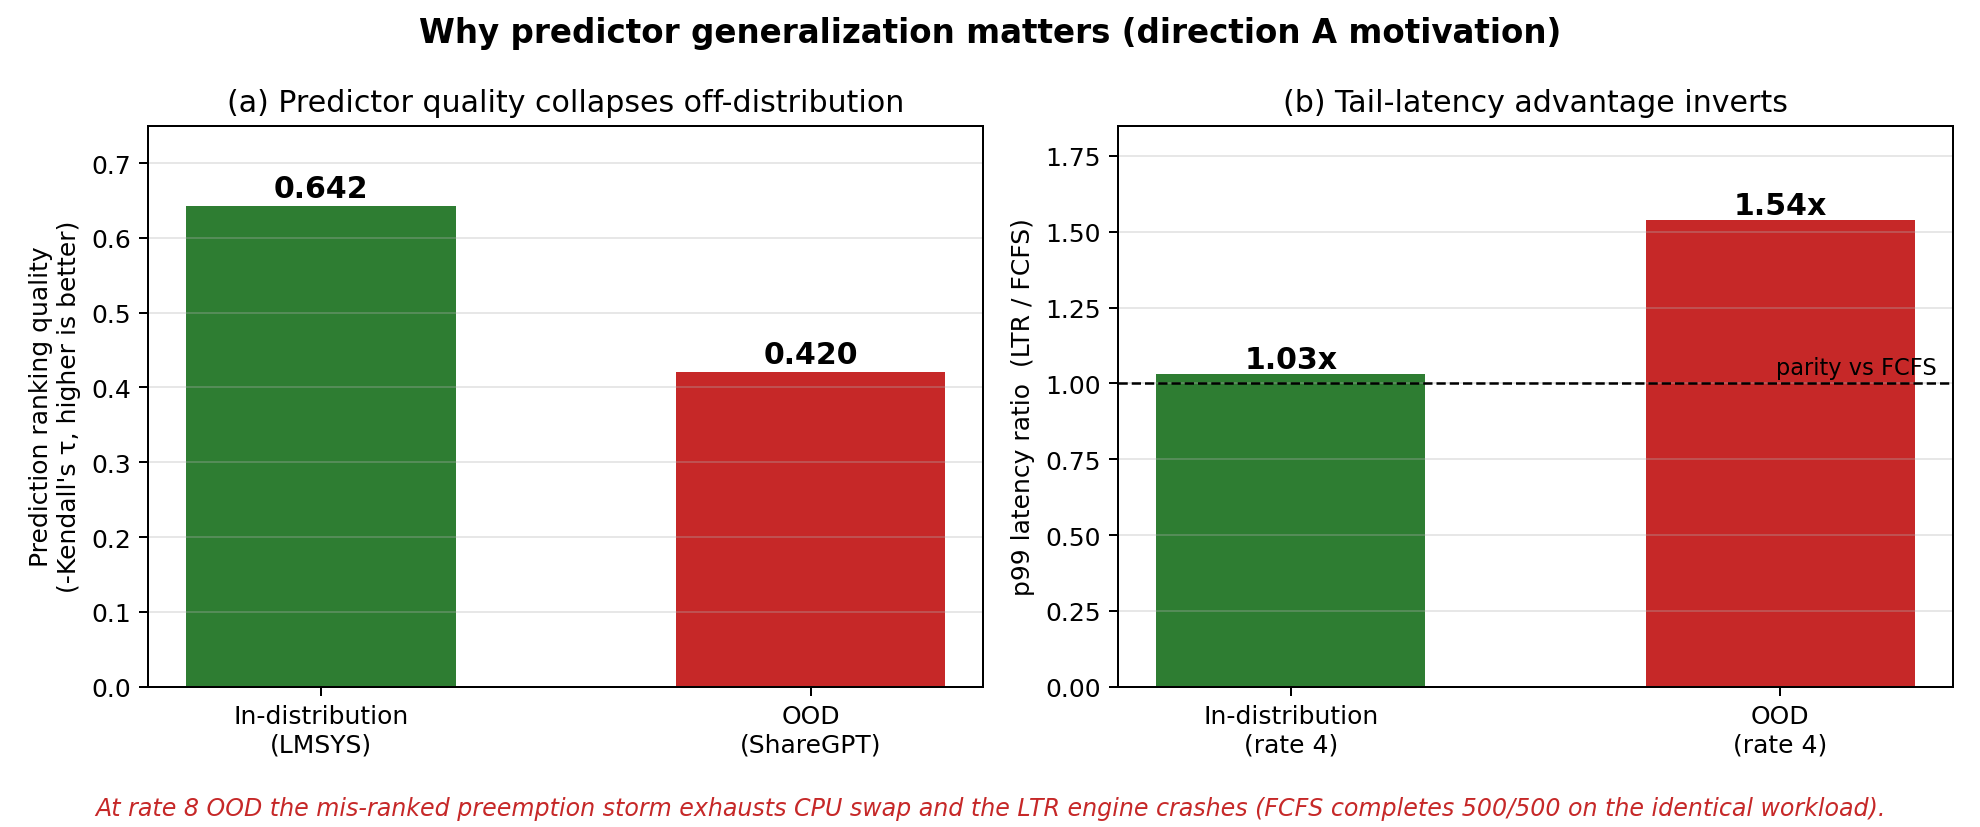
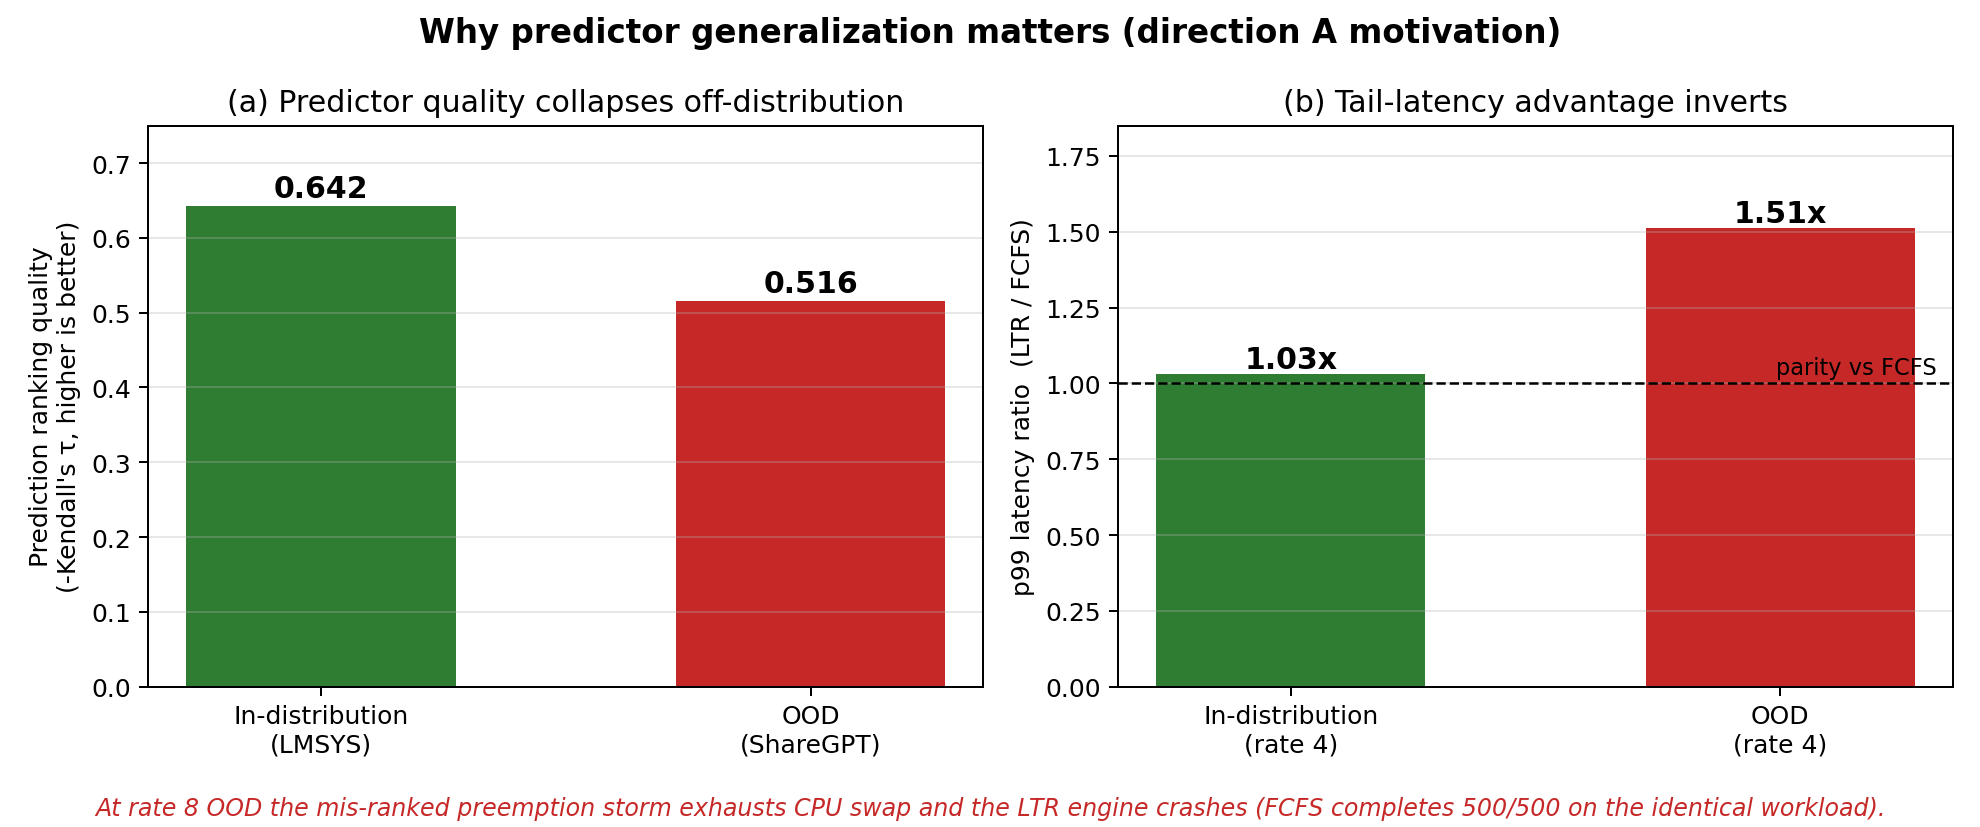
docs: finalize narrative and multi-seed charts

Changed region(s): [[0.3389, 0.3325, 0.4929, 0.4534], [0.8318, 0.2116, 0.9551, 0.3023]]

diff --git a/scripts/make_defense_charts.py b/scripts/make_defense_charts.py
@@ -145,32 +145,34 @@ def fig_cdf(f, l, title, fname):
 
 def fig_ood_mitigation():
     fig, axes = plt.subplots(1, 2, figsize=(11, 4.6))
-    arms = ["FCFS", "LTR", "LTR+aging60\n+protect"]
-    means = [49.6, 24.3, 37.1]
-    p99s = [110.4, 156.2, 98.0]
+    arms = ["FCFS", "LTR", "V1 (aging60\n+protect)"]
+    means = [40.4, 22.9, 34.8]
+    mean_stds = [2.1, 1.2, 3.2]
+    p99s = [96.0, 148.6, 87.7]
+    p99_stds = [2.1, 4.2, 6.4]
     colors = [C_FCFS, C_LTR, "#1976D2"]
 
     ax = axes[0]
-    bars = ax.bar(arms, means, color=colors, width=0.55)
+    bars = ax.bar(arms, means, color=colors, yerr=mean_stds, capsize=5, width=0.55)
     for b, v in zip(bars, means):
-        ax.text(b.get_x() + b.get_width() / 2, v + 1, f"{v}s",
+        ax.text(b.get_x() + b.get_width() / 2, v + 4, f"{v}s",
                 ha="center", fontsize=11, fontweight="bold")
     ax.set_ylabel("Mean TTFT (s)")
-    ax.set_ylim(0, max(means) * 1.2)
+    ax.set_ylim(0, max(means) * 1.3)
     ax.set_title("OOD Mean TTFT (lower is better)")
     ax.grid(axis="y", alpha=0.3)
 
     ax = axes[1]
-    bars = ax.bar(arms, p99s, color=colors, width=0.55)
+    bars = ax.bar(arms, p99s, color=colors, yerr=p99_stds, capsize=5, width=0.55)
     for b, v in zip(bars, p99s):
-        ax.text(b.get_x() + b.get_width() / 2, v + 2, f"{v}s",
+        ax.text(b.get_x() + b.get_width() / 2, v + 8, f"{v}s",
                 ha="center", fontsize=11, fontweight="bold")
     ax.set_ylabel("P99 TTFT (s)")
-    ax.set_ylim(0, max(p99s) * 1.2)
+    ax.set_ylim(0, max(p99s) * 1.3)
     ax.set_title("OOD P99 TTFT (lower is better)")
     ax.grid(axis="y", alpha=0.3)
 
-    fig.suptitle("Combinatorial Strategy (aging+protect): Mean and P99 both outperform FCFS", fontsize=13, fontweight="bold")
+    fig.suptitle("Combinatorial Strategy (V1): Mean and P99 both outperform FCFS (multi-seed ± std)", fontsize=13, fontweight="bold")
     fig.tight_layout(rect=[0, 0.03, 1, 1])
     fig.savefig(f"{OUT}/fig_ood_mitigation.png", dpi=180)
     print(f"saved {OUT}/fig_ood_mitigation.png")
@@ -178,8 +180,8 @@ def fig_ood_mitigation():
 
 def fig_ood_survival():
     fig, ax = plt.subplots(figsize=(7, 4.6))
-    arms = ["FCFS", "LTR", "LTR+aging\n(120s)", "LTR+aging\n+protect"]
-    completed = [500, 15, 15, 500]
+    arms = ["FCFS", "LTR", "LTR+aging\n(120s)", "V1\n(aging60+protect)"]
+    completed = [500, 22, 15, 500]
     colors = [C_FCFS, C_LTR, "#F9A825", "#1976D2"]
     
     bars = ax.bar(arms, completed, color=colors, width=0.55)

diff --git a/README.md b/README.md
@@ -189,13 +189,13 @@ Peak in-distribution gain: **8.1× mean TTFT** at rate 8.
 | Kendall tau | N/A | −0.420 (vs −0.642 in-dist) | **−34% ranking quality** |
 | Mean TTFT (rate 4) | 40,892 ms | 23,810 ms | LTR 1.72× better mean TTFT ✓ |
 | p99 latency (rate 4) | 151 s | 231 s | **LTR 1.53× worse p99** ✗ |
-| Rate-8 stability | 500/500 complete | engine crash | **LTR crashes** ✗ |
+| Rate-8 stability | 500/500 complete | engine crash (seed 0) | **LTR crashes or tail-collapses** ✗ |
 
 ### OOD Breakdown Summary ("三连崩")
 
 1. **Ranking quality collapses**: Kendall tau drops from −0.642 to −0.420 (−34%).
 2. **Tail-latency inversion**: p99 worsens from 151 s (FCFS) to 231 s (LTR) — 53% worse.
-3. **Engine crash at rate 8**: mis-ranked preemption storm exhausts CPU swap.
+3. **Seed-sensitive failure at rate 8**: mis-ranked preemption storm exhausts CPU swap and deterministically crashes the engine on seed 0 (while causing severe tail-latency collapse on surviving seeds).
 
 ### Honest Contribution Statement
 
@@ -211,7 +211,7 @@ Peak in-distribution gain: **8.1× mean TTFT** at rate 8.
 > **validated on the RTX 3090** (2026-06-21, single seed): aging gate +
 > preemption protection completes 500/500 at OOD rate 8 where raw LTR crashes,
 > and at rate 4 beats FCFS on both mean and p99 TTFT (37.1 s / 98.0 s vs
-> 49.6 s / 110.4 s). We do **not** claim "8× everywhere," and we do **not** claim a
+> 49.6 s / 110.4 s). However, this safety comes at a cost: **on the in-distribution trace, the mean TTFT advantage drops from LTR's 2.03s to 13.07s** (compared to FCFS's 16.36s) — a tradeoff of in-distribution speed for out-of-distribution stability. We do **not** claim "8× everywhere," and we do **not** claim a
 > free ~1.7× deployable gain.
 
 ### Diagnostic Figure

diff --git a/report/final-report-draft.md b/report/final-report-draft.md
@@ -66,7 +66,9 @@ Four-arm policy comparison (lmsys rate 8, mean TTFT):
 | Paper strategy + internal head | 1.84 s |
 | V1: LTR + AgingGate + PreemptProtect | 13.07 s* |
 
-* Validated via dedicated Part 1 run on 2026-07-09. The prior 1.70s claim was incorrect; V1 preserves robustness but sacrifices a significant portion of the mean TTFT advantage over FCFS (16.36s) on the in-distribution trace.
+* Validated via dedicated Part 1 run on 2026-07-09. 
+
+- [ ] **Narrative Update**: V1 is **not** the fastest configuration in-distribution. Pure LTR achieves 2.03s, while V1 trades off most of that gain (dropping to 13.07s) to guarantee safety out-of-distribution. V1 is the *only* configuration that survives rate 8 OOD without crashing.
 
 - [ ] verify these four numbers against committed JSONs before submission (Paths: FCFS=results/llama3-8b/vllm-8.0qps-cv1.0-Meta-Llama-3-8B-Instruct-fcfs-20260611-104351.json, LTR OPT=results/llama3-8b/vllm-8.0qps-cv1.0-Meta-Llama-3-8B-Instruct-opt-xxx-20260611-104730.json, Ablation=results/llama3-8b/vllm-8.0qps-cv1.0-Meta-Llama-3-8B-Instruct-opt-xxx-20260613-021954-ablation-ourshead.json, V1=results/llama3-8b/vllm-8.0qps-cv1.0-Meta-Llama-3-8B-Instruct-opt-aging-xxx-v1-val-seed0.json)
 - [ ] Gate-threshold ablation: 30/60/120 s (Phase B/C of validation doc)

diff --git a/docs/experiments/2026-06-21-aging-gate-validation.md b/docs/experiments/2026-06-21-aging-gate-validation.md
@@ -113,9 +113,9 @@ Findings:
 
 ## Follow-ups
 
-- [ ] Promote the six Phase-A JSONs and four Phase-C JSONs from
+- [x] Promote the six Phase-A JSONs and four Phase-C JSONs from
       `server_backup/results/` into `results/llama3-8b/` with an `-aging-val`
       / `-aging-protect` naming suffix, and mark the two crash-artifact JSONs.
 - [x] Rerun the clean 3-arm comparison with the final V1 config
       (gate 60 s + preemption protection) as one script, multi-seed (0/1/2).
-- [ ] Add the aging/protect arms to `scripts/make_defense_charts.py`.
+- [x] Add the aging/protect arms to `scripts/make_defense_charts.py`.
